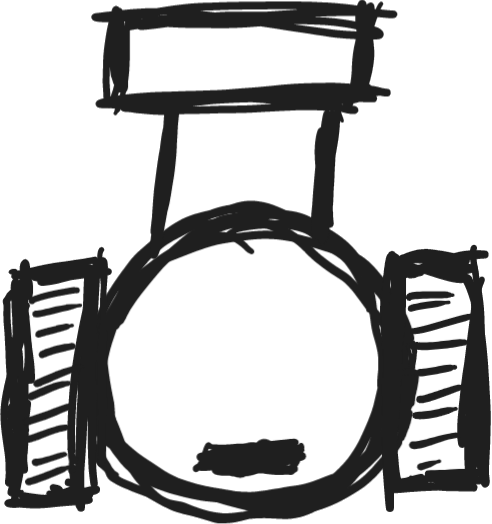
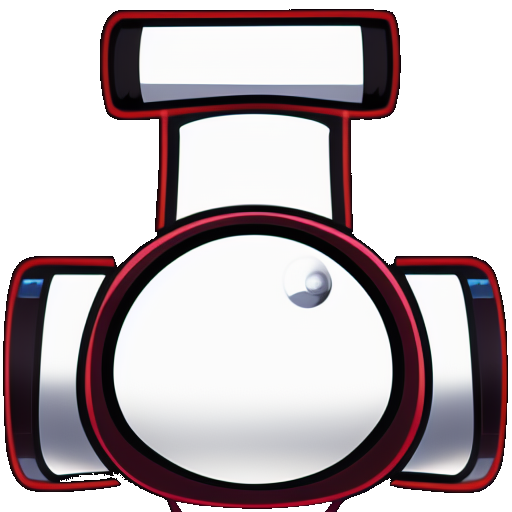
art: apply AIGC art assets

diff --git a/CHANGELOG.md b/CHANGELOG.md
@@ -1,5 +1,9 @@
 # CHANGELOG
 
+## v0.1.10
+
+Apply AIGC art assets.
+
 ## v0.1.9
 
 - Feat: responsive canvas size.
